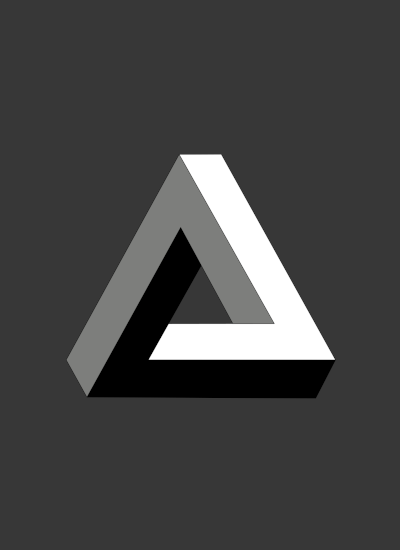
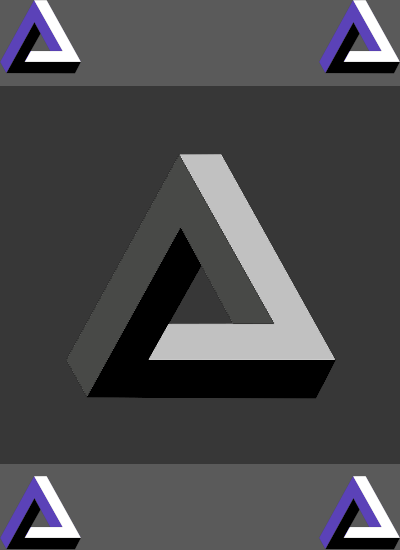
fghfgbf

diff --git a/Solittare/Gamewindow.xaml b/Solittare/Gamewindow.xaml
@@ -5,7 +5,7 @@
         xmlns:mc="http://schemas.openxmlformats.org/markup-compatibility/2006"
         xmlns:local="clr-namespace:Solittare"
         mc:Ignorable="d"
-        Title="Game" Height="900" Width="1600" Foreground="{x:Null}" Background="#FF1A1A1A" ResizeMode="CanResizeWithGrip" WindowStartupLocation="CenterScreen" WindowState="Maximized" KeyDown="Window_KeyDown">
+        Title="Game" Height="900" Width="1600" Foreground="{x:Null}" Background="#FF1A1A1A" ResizeMode="CanResizeWithGrip" WindowStartupLocation="CenterScreen" WindowState="Maximized" KeyDown="Window_KeyDown" Icon="/1200px-Penrose-dreieck.svg.png">
     <Window.Resources>
         <Style x:Key="FocusVisual">
             <Setter Property="Control.Template">

diff --git a/Solittare/MainWindow.xaml b/Solittare/MainWindow.xaml
@@ -5,7 +5,7 @@
         xmlns:mc="http://schemas.openxmlformats.org/markup-compatibility/2006"
         xmlns:local="clr-namespace:Solittare"
         mc:Ignorable="d"
-        Title="Menu" Height="450" Width="800" Foreground="{x:Null}" Background="#FF1A1A1A" KeyDown="Menu_KeyDown">
+        Title="Menu" Height="450" Width="800" Foreground="{x:Null}" Background="#FF1A1A1A" KeyDown="Menu_KeyDown" Icon="/1200px-Penrose-dreieck.svg.png">
     <Window.Resources>
         <Style x:Key="FocusVisual">
             <Setter Property="Control.Template">

diff --git a/Solittare/Dev.xaml b/Solittare/Dev.xaml
@@ -7,7 +7,7 @@
         mc:Ignorable="d"
         Title="Dev" Height="450" Width="800" Foreground="{x:Null}" Background="#FF2F2F2F">
     <Grid>
-        <Button x:Name="cl" Content="Clear all" HorizontalAlignment="Left" Height="60" Margin="29,65,0,0" VerticalAlignment="Top" Width="102" Click="cl_Click"/>
+        <Button x:Name="cl" Content="Clear all" HorizontalAlignment="Left" Height="60" Margin="45,65,0,0" VerticalAlignment="Top" Width="102" Click="cl_Click"/>
 
     </Grid>
 </Window>

diff --git a/Solittare/Game.cs b/Solittare/Game.cs
@@ -21,13 +21,14 @@ namespace Solittare
                 board[i - 1] = new Stack();
             }
 
-            deal();
+            deal(false);
             //nebude    
-            deal();
-            deal();
+            deal(false);
+            deal(false);
+            check();
         }
 
-        public void deal()
+        public void deal(bool nonfirst = true)
         {
             Random random = new Random();
 
@@ -53,7 +54,12 @@ namespace Solittare
                     MessageBox.Show("No deal remainnig!");
                     i = 0;
                     
-                }               
+                }
+                
+                if(nonfirst == true)
+                {
+                    check();
+                }
             }
         }
 
@@ -124,7 +130,13 @@ namespace Solittare
         {
             foreach(Stack stack in board)
             {
+                if(stack.cards.Count != 0)
+                {
+                    stack.cards[0].isHiden = false;
+                }
+
                 int c = 1;
+
                 try
                 {
                     foreach (Card card in stack.cards)

diff --git a/Solittare/Gamewindow.xaml.cs b/Solittare/Gamewindow.xaml.cs
@@ -62,7 +62,15 @@ namespace Solittare
                         img = new Image();
                         string p1 = main.board[i - 1].cards[u - 1].color.ToString();
                         string p2 = main.board[i - 1].cards[u - 1].id.ToString();
-                        img.Source = new BitmapImage(new Uri("Resources/Cards/" + p1 + "/" + p2 + "n.png", UriKind.Relative));
+                        if(main.board[i - 1].cards[u -1].isHiden == true)
+                        {
+                            img.Source = new BitmapImage(new Uri("Resources/Cards/blank.png", UriKind.Relative));
+                        }
+                        else
+                        {
+                            img.Source = new BitmapImage(new Uri("Resources/Cards/" + p1 + "/" + p2 + "n.png", UriKind.Relative));
+                        }
+
                         img.MouseDown += new MouseButtonEventHandler(pickup);
                         img.Drop += new DragEventHandler(dropec);
                         img.VerticalAlignment = VerticalAlignment.Top;

diff --git a/Solittare/Card.cs b/Solittare/Card.cs
@@ -11,17 +11,27 @@ namespace Solittare
     {
         public int id { get; }
         public coloros color { get; }
+        public bool isHiden { get; set; } //dfghf//
 
         public Card(int id)
         {
             this.id = id;
             color = 0;
+            isHiden = true;
         }
 
         public Card(int id, coloros coloros)
         {
             this.id = id;
             color = coloros;
+            isHiden = true;
+        }
+
+        public Card(int id, coloros coloros, bool hidden)
+        {
+            this.id = id;
+            color = coloros;
+            isHiden = hidden;
         }
     }
     
